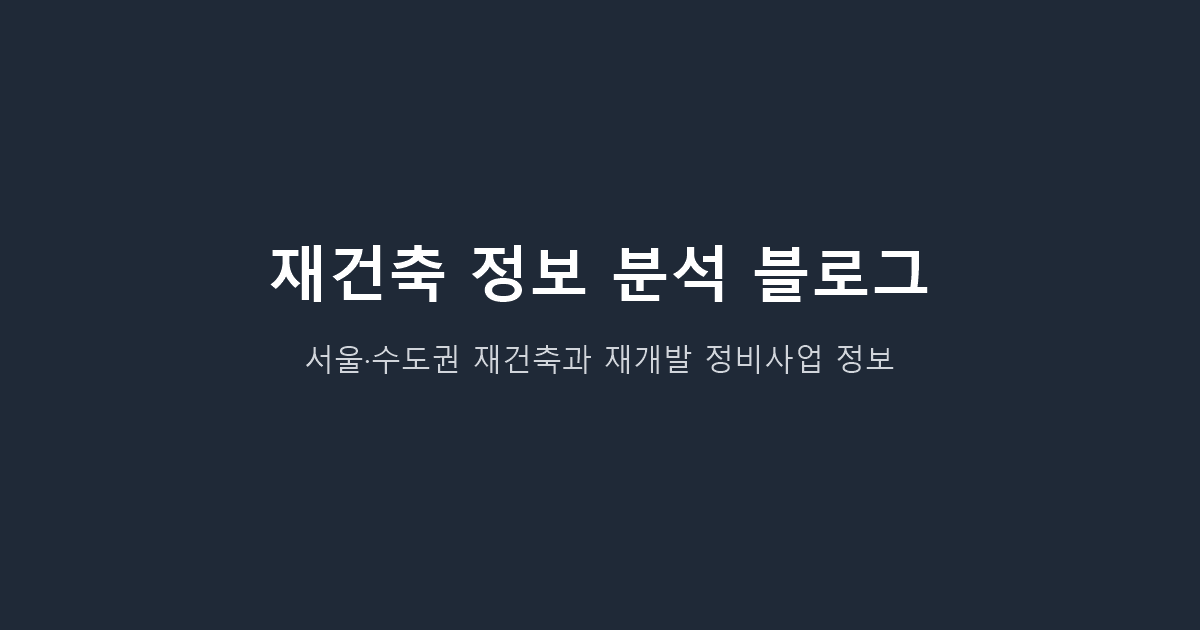
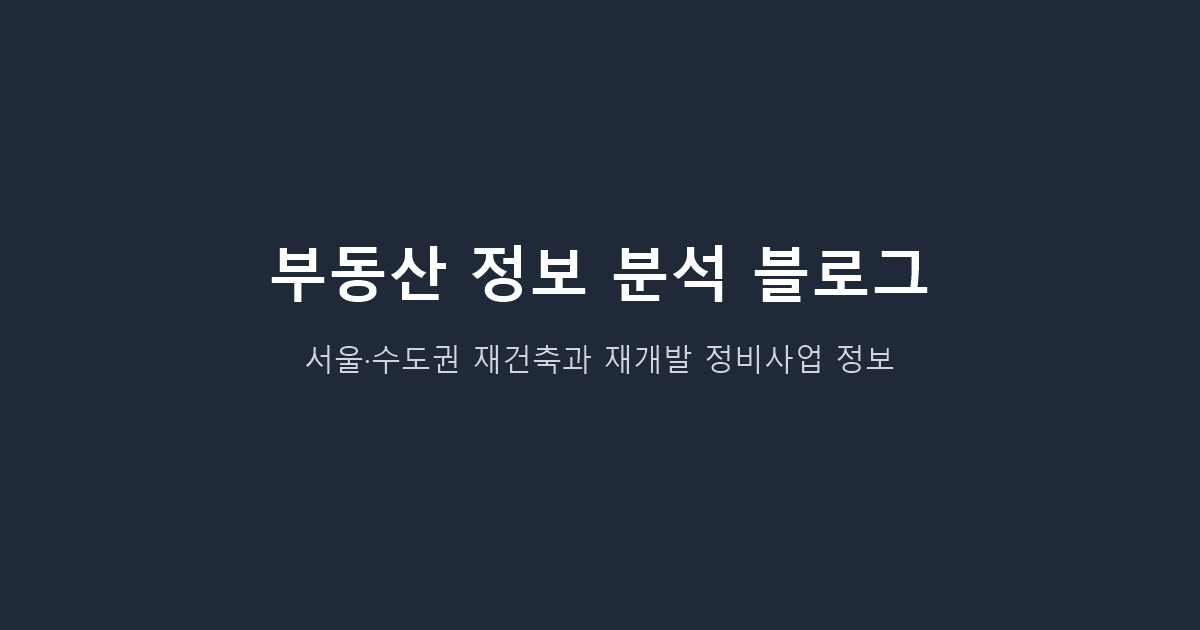
feat: Rename site to 부동산 정보 분석 블로그 and rewrite the about page
Use the new name everywhere it appears, including the RSS title, share
image, and favicon. Keep the description focused on reconstruction and
redevelopment, which remain the site's subject.

Replace unsupported claims of expertise on the about page with what the site
does, how sources are shown, and how to report errors.

Changed region(s): [[0.2158, 0.3921, 0.37, 0.4825]]

diff --git a/src/main/resources/templates/about.html b/src/main/resources/templates/about.html
@@ -3,7 +3,7 @@
 <head>
     <meta charset="UTF-8">
     <meta name="viewport" content="width=device-width, initial-scale=1.0">
-    <title>블로그 소개 - 재건축 정보 분석 블로그</title>
+    <title>블로그 소개 - 부동산 정보 분석 블로그</title>
     <link rel="stylesheet" href="https://cdn.jsdelivr.net/npm/bootstrap@5.3.0/dist/css/bootstrap.min.css">
     <link rel="stylesheet" th:href="@{/css/custom.css}">
 </head>
@@ -11,7 +11,7 @@
     <nav class="navbar navbar-expand-lg navbar-dark bg-dark mb-4">
         <div class="container">
             <a class="nav-link fw-semibold d-inline-block me-3" href="/prologue">프롤로그</a>
-            <a class="navbar-brand fw-bold" th:href="@{/}">재건축 정보 분석 블로그</a>
+            <a class="navbar-brand fw-bold" th:href="@{/}">부동산 정보 분석 블로그</a>
             <div class="navbar-nav">
                 <a class="nav-link active" th:href="@{/about}">소개</a>
                 <a class="nav-link" th:href="@{/contact}">연락처</a>
@@ -26,21 +26,21 @@
                 <h1 class="mb-4">블로그 소개</h1>
                 <div class="card shadow-sm mb-4">
                     <div class="card-body">
-                        <h3>전문적인 재건축 정보의 허브</h3>
-                        <p class="lead">대한민국 도시 정비 사업의 미래를 분석하고 유익한 정보를 공유합니다.</p>
+                        <h3>재건축·재개발 정보를 정리하고 분석합니다</h3>
+                        <p class="lead">부동산 중에서도 서울과 수도권의 재건축·재개발 소식을 다룹니다.</p>
                         <hr>
                         <h5>운영 목적</h5>
-                        <p>이 블로그는 복잡하고 변화가 잦은 재건축, 재개발 등 정비 사업에 대한 정확한 정보를 제공하기 위해 운영되고 있습니다. 특히 서울 및 수도권의 주요 단지들을 중심으로 신속통합기획, 정비구역 지정 현황, 조합 설립 단계 등 전문적인 분석을 다룹니다.</p>
+                        <p>재건축과 재개발 소식은 절차가 복잡하고 자주 바뀌며 여러 곳에 흩어져 있습니다. 이 블로그는 언론 보도와 공개 자료를 모아 단지별 진행 단계를 쉽게 확인할 수 있도록 정리합니다.</p>
                         
                         <h5>제공하는 콘텐츠</h5>
                         <ul>
-                            <li><strong>단지별 상세 분석:</strong> 여의도, 압구정, 목동 등 주요 재건축 단지의 추진 현황.</li>
-                            <li><strong>정책 업데이트:</strong> 정부 및 서울시의 최신 부동산 정비 사업 규제 완화 및 정책 변화 분석.</li>
-                            <li><strong>시장 트렌드:</strong> 공사비 이슈, 리모델링과 재건축의 차이 등 실질적인 시장 동향 보고.</li>
+                            <li><strong>단지·구역 현황:</strong> 재건축 단지와 재개발 구역의 시공사 선정, 인허가 등 진행 상황.</li>
+                            <li><strong>정책 변화:</strong> 정부와 서울시의 정비사업 제도 변화와 그 의미.</li>
+                            <li><strong>비교와 해설:</strong> 공사비, 사업 단계 등 공개된 수치를 비교한 자료와 뉴스 해설.</li>
                         </ul>
 
-                        <h5>비전</h5>
-                        <p>독자 여러분께 객관적이고 깊이 있는 분석을 제공하여, 자산 관리와 주거 환경 선택에 실질적인 도움을 드리는 것을 목표로 합니다. 지속적으로 업데이트되는 양질의 콘텐츠를 통해 신뢰받는 부동산 정보 채널이 되겠습니다.</p>
+                        <h5>글을 읽으실 때</h5>
+                        <p>글에는 참고한 자료와 기준일을 함께 적습니다. 일정과 수치는 바뀔 수 있으니 중요한 결정 전에는 조합 공지와 관할 관청 자료를 확인해 주세요. 이 블로그의 글은 정보 제공을 위한 것이며 투자 권유가 아닙니다. 잘못된 내용을 발견하시면 <a th:href="@{/contact}">연락처</a>로 알려 주세요.</p>
                     </div>
                 </div>
             </div>
@@ -50,7 +50,7 @@
     <footer class="mt-5 py-3 bg-light text-center">
         <div class="container">
             <p class="text-muted">
-                &copy; 2026 재건축 정보 분석 블로그. 모든 권리 보유.
+                &copy; 2026 부동산 정보 분석 블로그. 모든 권리 보유.
                 <span class="ms-3">
                     <a href="/rss" class="text-muted text-decoration-none small">RSS 피드</a> | 
                     <a href="/sitemap.xml" class="text-muted text-decoration-none small">사이트맵</a>

diff --git a/src/main/resources/templates/index.html b/src/main/resources/templates/index.html
@@ -6,14 +6,14 @@
     <meta name="robots" content="index, follow">
     
     <!-- 동적 타이틀: 게시글 조회 시에는 글 제목이 먼저 나오도록 함 -->
-    <title th:text="${post != null ? post.title + ' - 재건축 정보 분석 블로그' : '재건축 정보 분석 블로그'}">재건축 정보 분석 블로그</title>
+    <title th:text="${post != null ? post.title + ' - 부동산 정보 분석 블로그' : '부동산 정보 분석 블로그'}">부동산 정보 분석 블로그</title>
     
     <!-- 메타 설명: 게시글 조회 시 본문 내용을 요약하여 사용 -->
     <meta name="description" th:content="${post != null ? #strings.abbreviate(post.content, 150) : '서울 및 수도권 재건축·재개발 정비사업 정보를 분석하는 블로그입니다.'}">
     
     <!-- Open Graph (SNS 공유용) -->
     <meta property="og:type" content="website">
-    <meta property="og:title" th:content="${post != null ? post.title : '재건축 정보 분석 블로그'}">
+    <meta property="og:title" th:content="${post != null ? post.title : '부동산 정보 분석 블로그'}">
     <meta property="og:description" th:content="${post != null ? #strings.abbreviate(post.content, 100) : '서울 및 수도권 재건축·재개발 정비사업 정보를 분석하는 블로그입니다.'}">
     <meta property="og:image" th:content="${baseUrl + (post != null and post.imagePath != null and post.imagePath != '' ? '/uploads/' + post.imagePath : '/css/default-og-image.png')}">
     <meta property="og:url" th:content="${#httpServletRequest.requestURL}">
@@ -29,7 +29,7 @@
 <nav class="navbar navbar-expand-lg navbar-light bg-white border-bottom shadow-sm">
     <div class="container">
         <a class="nav-link fw-semibold d-inline-block me-3" href="/prologue">프롤로그</a>
-        <a class="navbar-brand fw-bold" href="/">재건축 정보 분석 블로그</a>
+        <a class="navbar-brand fw-bold" href="/">부동산 정보 분석 블로그</a>
         <button class="navbar-toggler" type="button" data-bs-toggle="collapse" data-bs-target="#navbarNav">
             <span class="navbar-toggler-icon"></span>
         </button>
@@ -158,7 +158,7 @@
             <li class="nav-item"><a class="nav-link text-muted" href="/privacy">개인정보처리방침</a></li>
         </ul>
         <div class="text-muted small">
-            &copy; 2026 재건축 정보 분석 블로그 | 
+            &copy; 2026 부동산 정보 분석 블로그 | 
             <span class="ms-2">
                 <a href="/rss" class="text-muted text-decoration-none">RSS 피드</a> | 
                 <a href="/sitemap.xml" class="text-muted text-decoration-none">사이트맵</a>

diff --git a/src/main/resources/templates/privacy.html b/src/main/resources/templates/privacy.html
@@ -3,14 +3,14 @@
 <head>
     <meta charset="UTF-8">
     <meta name="viewport" content="width=device-width, initial-scale=1.0">
-    <title>개인정보처리방침 - 재건축 정보 분석 블로그</title>
+    <title>개인정보처리방침 - 부동산 정보 분석 블로그</title>
     <link rel="stylesheet" href="https://cdn.jsdelivr.net/npm/bootstrap@5.3.0/dist/css/bootstrap.min.css">
 </head>
 <body>
     <nav class="navbar navbar-expand-lg navbar-light bg-white border-bottom mb-4">
         <div class="container">
             <a class="nav-link fw-semibold d-inline-block me-3" href="/prologue">프롤로그</a>
-            <a class="navbar-brand fw-bold" th:href="@{/}">재건축 정보 분석 블로그</a>
+            <a class="navbar-brand fw-bold" th:href="@{/}">부동산 정보 분석 블로그</a>
             <div class="navbar-nav ms-auto">
                 <a class="nav-link" th:href="@{/about}">소개</a>
                 <a class="nav-link" th:href="@{/contact}">연락처</a>
@@ -22,7 +22,7 @@
         <h1 class="mb-4">개인정보처리방침</h1>
         <div class="card shadow-sm">
             <div class="card-body">
-                <p>재건축 정보 분석 블로그(이하 '블로그')는 사용자의 개인정보 보호를 중요하게 생각하며, 관련 법규를 준수합니다. 본 방침은 블로그가 수집하는 정보의 종류와 사용 방법을 안내합니다.</p>
+                <p>부동산 정보 분석 블로그(이하 '블로그')는 사용자의 개인정보 보호를 중요하게 생각하며, 관련 법규를 준수합니다. 본 방침은 블로그가 수집하는 정보의 종류와 사용 방법을 안내합니다.</p>
 
                 <h5 class="mt-4">1. 수집하는 개인정보</h5>
                 <p>본 블로그는 직접적인 회원 가입을 받지 않으며, 일반적인 방문 시에는 어떠한 개인정보도 수집하지 않습니다. 단, 이메일로 문의하실 경우 보내신 이메일 주소와 문의 내용을 받게 됩니다.</p>
@@ -48,7 +48,7 @@
     <footer class="mt-5 py-3 bg-light text-center">
         <div class="container">
             <p class="text-muted">
-                &copy; 2026 재건축 정보 분석 블로그. 모든 권리 보유.
+                &copy; 2026 부동산 정보 분석 블로그. 모든 권리 보유.
                 <span class="ms-3">
                     <a href="/rss" class="text-muted text-decoration-none small">RSS 피드</a> | 
                     <a href="/sitemap.xml" class="text-muted text-decoration-none small">사이트맵</a>

diff --git a/src/main/resources/templates/prologue.html b/src/main/resources/templates/prologue.html
@@ -3,7 +3,7 @@
 <head>
     <meta charset="UTF-8">
     <meta name="viewport" content="width=device-width, initial-scale=1.0">
-    <title>프롤로그 - 재건축 정보 분석 블로그</title>
+    <title>프롤로그 - 부동산 정보 분석 블로그</title>
     <link href="https://cdn.jsdelivr.net/npm/bootstrap@5.3.2/dist/css/bootstrap.min.css" rel="stylesheet">
     <link rel="stylesheet" th:href="@{/css/custom.css}">
     <style>
@@ -23,7 +23,7 @@
 <nav class="navbar navbar-expand-lg navbar-light bg-white border-bottom shadow-sm sticky-top">
     <div class="container">
         <a class="nav-link active fw-semibold d-inline-block me-3" href="/prologue">프롤로그</a>
-        <a class="navbar-brand fw-bold" href="/">재건축 정보 분석 블로그</a>
+        <a class="navbar-brand fw-bold" href="/">부동산 정보 분석 블로그</a>
         <button class="navbar-toggler" type="button" data-bs-toggle="collapse" data-bs-target="#navbarNav">
             <span class="navbar-toggler-icon"></span>
         </button>
@@ -84,7 +84,7 @@
             <li class="nav-item"><a class="nav-link text-muted" href="/privacy">개인정보처리방침</a></li>
         </ul>
         <div class="text-muted small">
-            &copy; 2026 재건축 정보 분석 블로그 | 
+            &copy; 2026 부동산 정보 분석 블로그 | 
             <span class="ms-2">
                 <a href="/rss" class="text-muted text-decoration-none">RSS 피드</a> | 
                 <a href="/sitemap.xml" class="text-muted text-decoration-none">사이트맵</a>

diff --git a/src/main/resources/templates/contact.html b/src/main/resources/templates/contact.html
@@ -3,7 +3,7 @@
 <head>
     <meta charset="UTF-8">
     <meta name="viewport" content="width=device-width, initial-scale=1.0">
-    <title>문의하기 - 재건축 정보 분석 블로그</title>
+    <title>문의하기 - 부동산 정보 분석 블로그</title>
     <link href="https://cdn.jsdelivr.net/npm/bootstrap@5.3.2/dist/css/bootstrap.min.css" rel="stylesheet">
     <link rel="stylesheet" th:href="@{/css/custom.css}">
 </head>
@@ -12,7 +12,7 @@
 <nav class="navbar navbar-expand-lg navbar-light bg-white border-bottom">
     <div class="container">
         <a class="nav-link fw-semibold d-inline-block me-3" href="/prologue">프롤로그</a>
-        <a class="navbar-brand fw-bold" href="/">재건축 정보 분석 블로그</a>
+        <a class="navbar-brand fw-bold" href="/">부동산 정보 분석 블로그</a>
         <button class="navbar-toggler" type="button" data-bs-toggle="collapse" data-bs-target="#navbarNav">
             <span class="navbar-toggler-icon"></span>
         </button>
@@ -50,7 +50,7 @@
             <li class="nav-item"><a class="nav-link" href="/privacy">개인정보처리방침</a></li>
         </ul>
         <div class="text-center text-muted">
-            &copy; 2026 재건축 정보 분석 블로그
+            &copy; 2026 부동산 정보 분석 블로그
             <span class="ms-3">
                 <a href="/rss" class="text-muted text-decoration-none small">RSS 피드</a> | 
                 <a href="/sitemap.xml" class="text-muted text-decoration-none small">사이트맵</a>

diff --git a/src/main/resources/templates/error.html b/src/main/resources/templates/error.html
@@ -4,7 +4,7 @@
     <meta charset="UTF-8">
     <meta name="viewport" content="width=device-width, initial-scale=1.0">
     <meta name="robots" content="noindex">
-    <title th:text="${(status == 404 ? '페이지를 찾을 수 없습니다' : '오류가 발생했습니다') + ' - 재건축 정보 분석 블로그'}">오류 - 재건축 정보 분석 블로그</title>
+    <title th:text="${(status == 404 ? '페이지를 찾을 수 없습니다' : '오류가 발생했습니다') + ' - 부동산 정보 분석 블로그'}">오류 - 부동산 정보 분석 블로그</title>
     <link href="https://cdn.jsdelivr.net/npm/bootstrap@5.3.2/dist/css/bootstrap.min.css" rel="stylesheet">
     <link rel="stylesheet" th:href="@{/css/custom.css}">
 </head>
@@ -12,7 +12,7 @@
 
 <nav class="navbar navbar-light bg-white border-bottom shadow-sm">
     <div class="container">
-        <a class="navbar-brand fw-bold" href="/">재건축 정보 분석 블로그</a>
+        <a class="navbar-brand fw-bold" href="/">부동산 정보 분석 블로그</a>
     </div>
 </nav>
 
@@ -29,7 +29,7 @@
             <li class="nav-item"><a class="nav-link text-muted" href="/contact">연락처</a></li>
             <li class="nav-item"><a class="nav-link text-muted" href="/privacy">개인정보처리방침</a></li>
         </ul>
-        <div class="text-muted small">&copy; 2026 재건축 정보 분석 블로그</div>
+        <div class="text-muted small">&copy; 2026 부동산 정보 분석 블로그</div>
     </div>
 </footer>
 

diff --git a/src/main/resources/templates/view.html b/src/main/resources/templates/view.html
@@ -12,7 +12,7 @@
 <nav class="navbar navbar-expand-lg navbar-light bg-white border-bottom shadow-sm">
     <div class="container">
         <a class="nav-link fw-semibold d-inline-block me-3" href="/prologue">프롤로그</a>
-        <a class="navbar-brand fw-bold" href="/">재건축 정보 분석 블로그</a>
+        <a class="navbar-brand fw-bold" href="/">부동산 정보 분석 블로그</a>
         <button class="navbar-toggler" type="button" data-bs-toggle="collapse" data-bs-target="#navbarNav">
             <span class="navbar-toggler-icon"></span>
         </button>
@@ -87,7 +87,7 @@
             <li class="nav-item"><a class="nav-link" href="/privacy">개인정보처리방침</a></li>
         </ul>
         <div class="text-center text-muted">
-            &copy; 2026 재건축 정보 분석 블로그
+            &copy; 2026 부동산 정보 분석 블로그
             <span class="ms-3">
                 <a href="/rss" class="text-muted text-decoration-none small">RSS 피드</a> | 
                 <a href="/sitemap.xml" class="text-muted text-decoration-none small">사이트맵</a>

diff --git a/src/main/resources/templates/form.html b/src/main/resources/templates/form.html
@@ -11,7 +11,7 @@
 
 <nav class="navbar navbar-expand-lg navbar-light bg-white border-bottom">
     <div class="container">
-        <a class="navbar-brand fw-bold" href="/">재건축 정보 분석 블로그</a>
+        <a class="navbar-brand fw-bold" href="/">부동산 정보 분석 블로그</a>
         <button class="navbar-toggler" type="button" data-bs-toggle="collapse" data-bs-target="#navbarNav">
             <span class="navbar-toggler-icon"></span>
         </button>
@@ -93,7 +93,7 @@
             <li class="nav-item"><a class="nav-link" href="/privacy">개인정보처리방침</a></li>
         </ul>
         <div class="text-center text-muted">
-            &copy; 2026 재건축 정보 분석 블로그
+            &copy; 2026 부동산 정보 분석 블로그
         </div>
     </div>
 </footer>

diff --git a/src/main/java/com/example/blog/FeedController.java b/src/main/java/com/example/blog/FeedController.java
@@ -59,7 +59,7 @@ public class FeedController {
         sb.append("<?xml version=\"1.0\" encoding=\"UTF-8\" ?>");
         sb.append("<rss version=\"2.0\">");
         sb.append("<channel>");
-        sb.append("<title>재건축 정보 분석 블로그</title>");
+        sb.append("<title>부동산 정보 분석 블로그</title>");
         sb.append("<link>").append(baseUrl).append("</link>");
         sb.append("<description>서울 및 수도권 재건축·재개발 정비사업 정보를 분석하는 블로그</description>");
 

diff --git a/src/test/java/com/example/blog/SiteSeoTest.java b/src/test/java/com/example/blog/SiteSeoTest.java
@@ -32,7 +32,7 @@ import org.springframework.test.web.servlet.MockMvc;
 @AutoConfigureMockMvc
 class SiteSeoTest {
 
-    private static final String SITE_NAME = "재건축 정보 분석 블로그";
+    private static final String SITE_NAME = "부동산 정보 분석 블로그";
     private static final int POST_COUNT = 6; // 한 페이지(5개)를 넘겨 2페이지가 생기도록 함
 
     @Autowired
